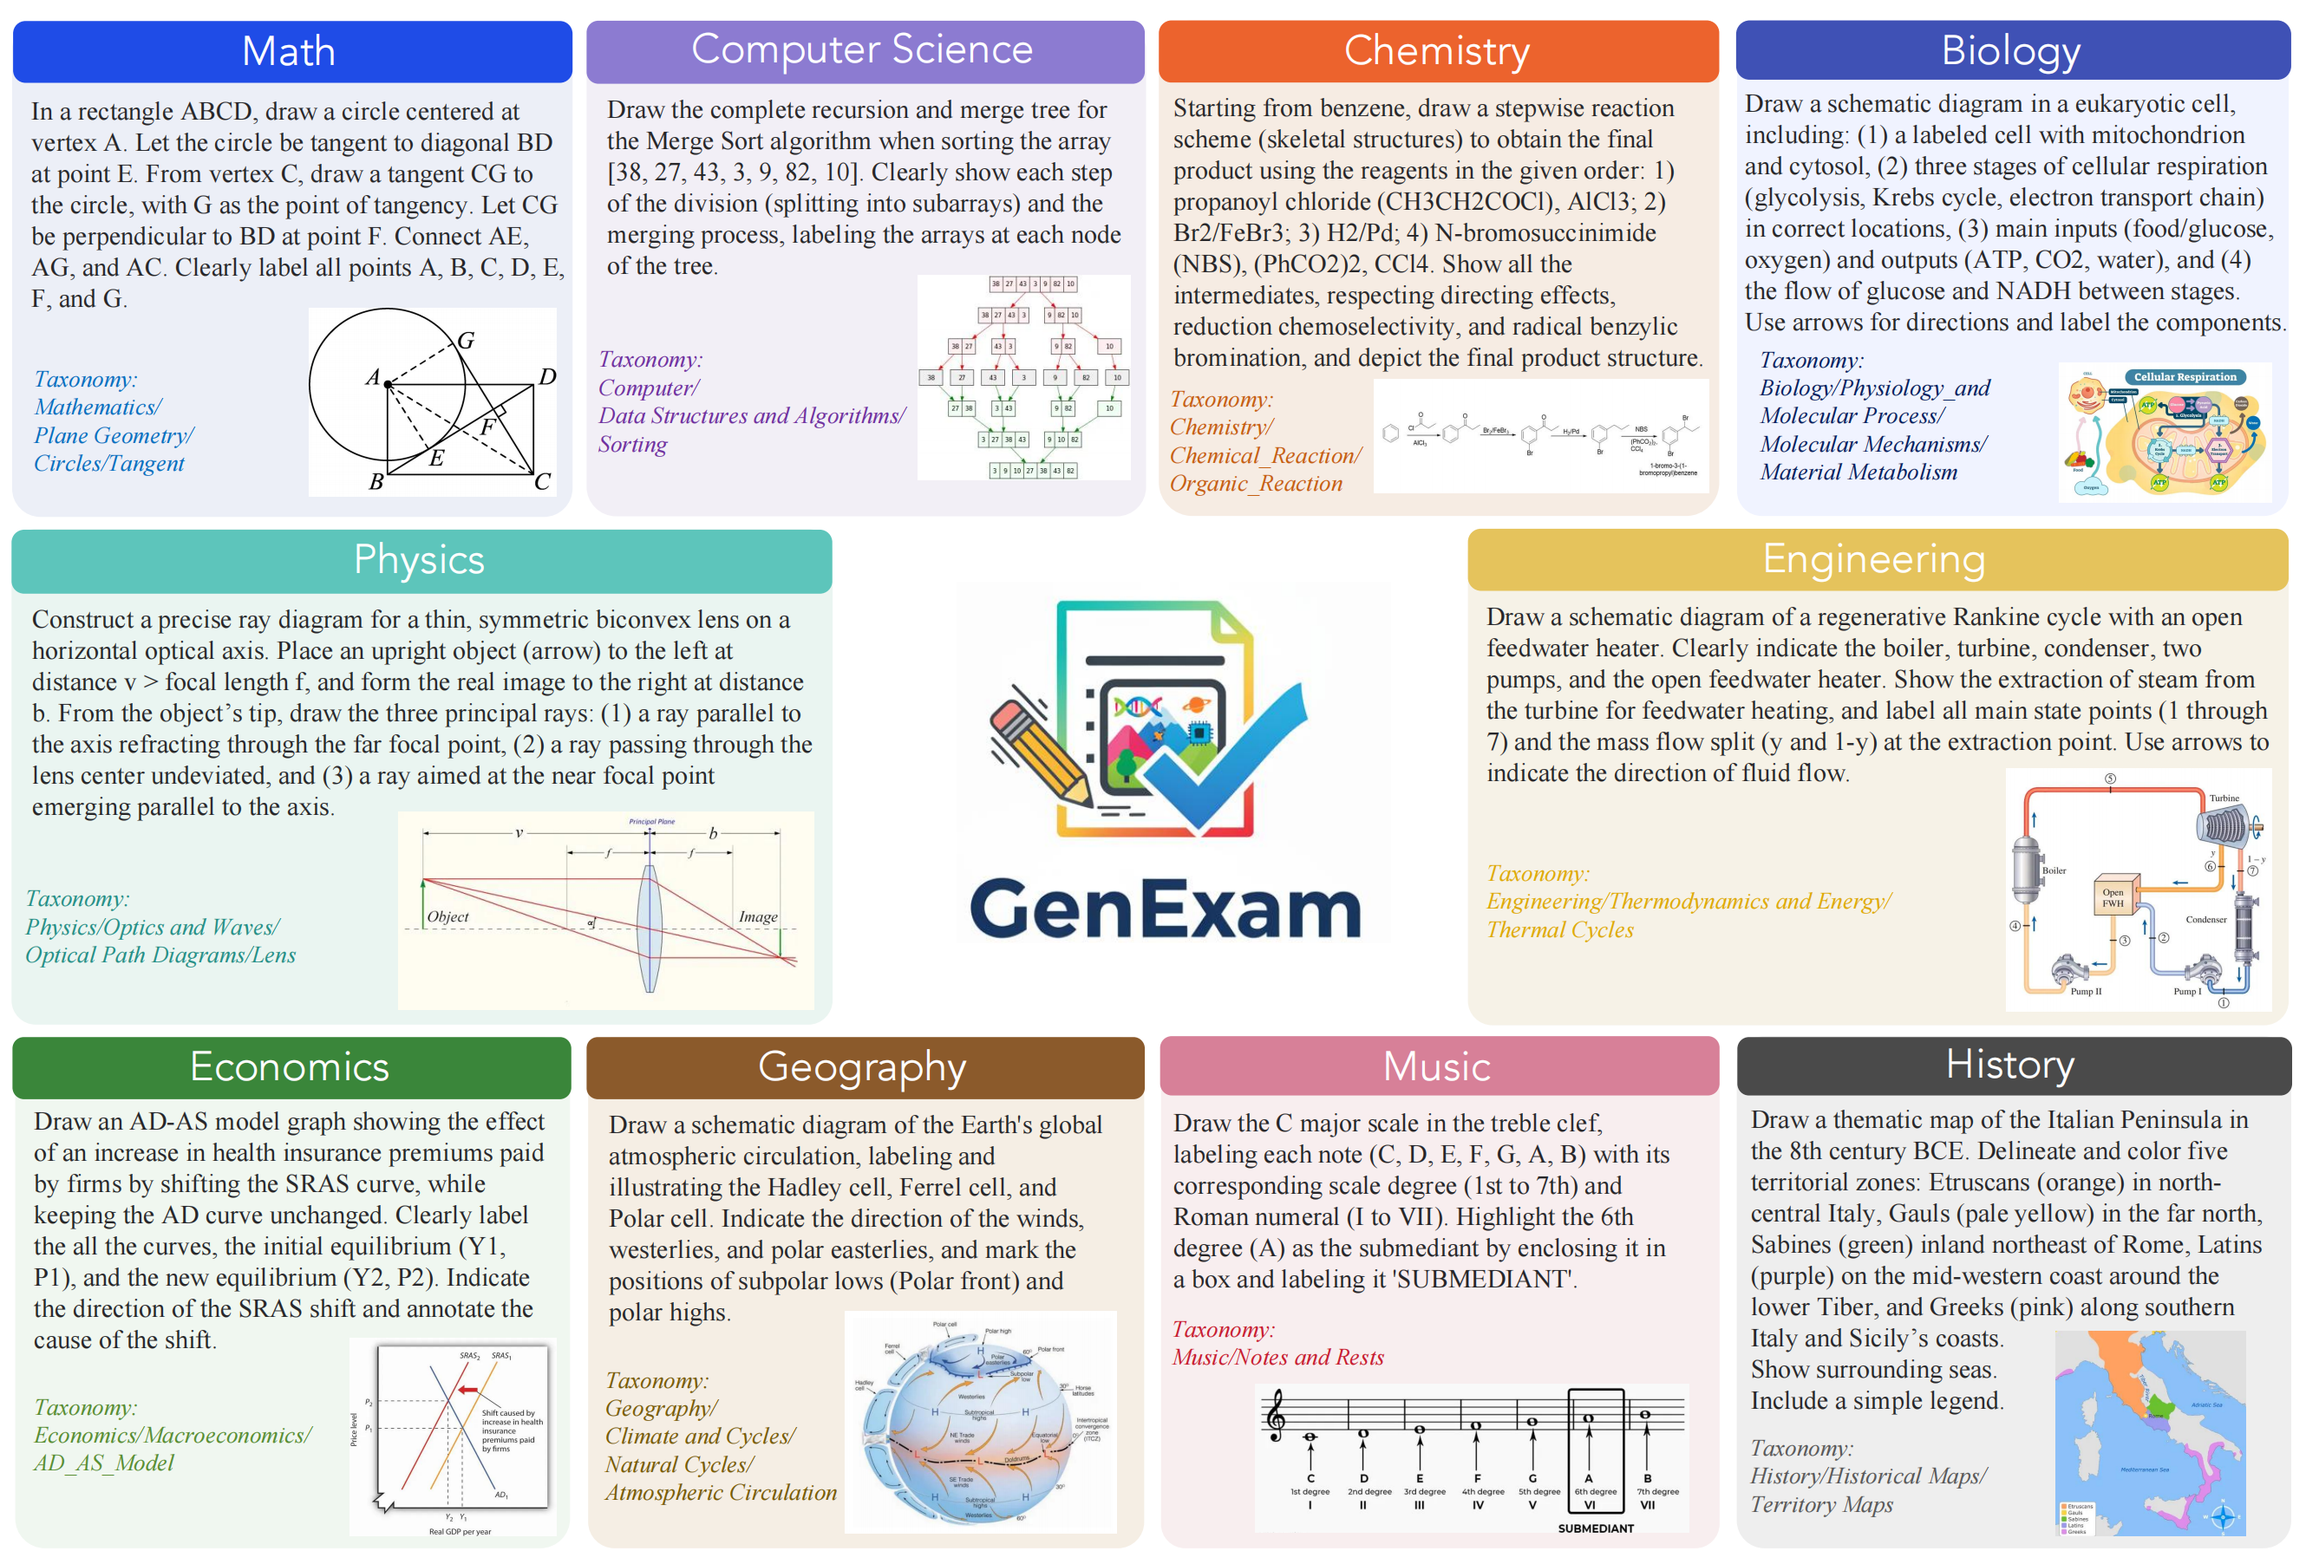
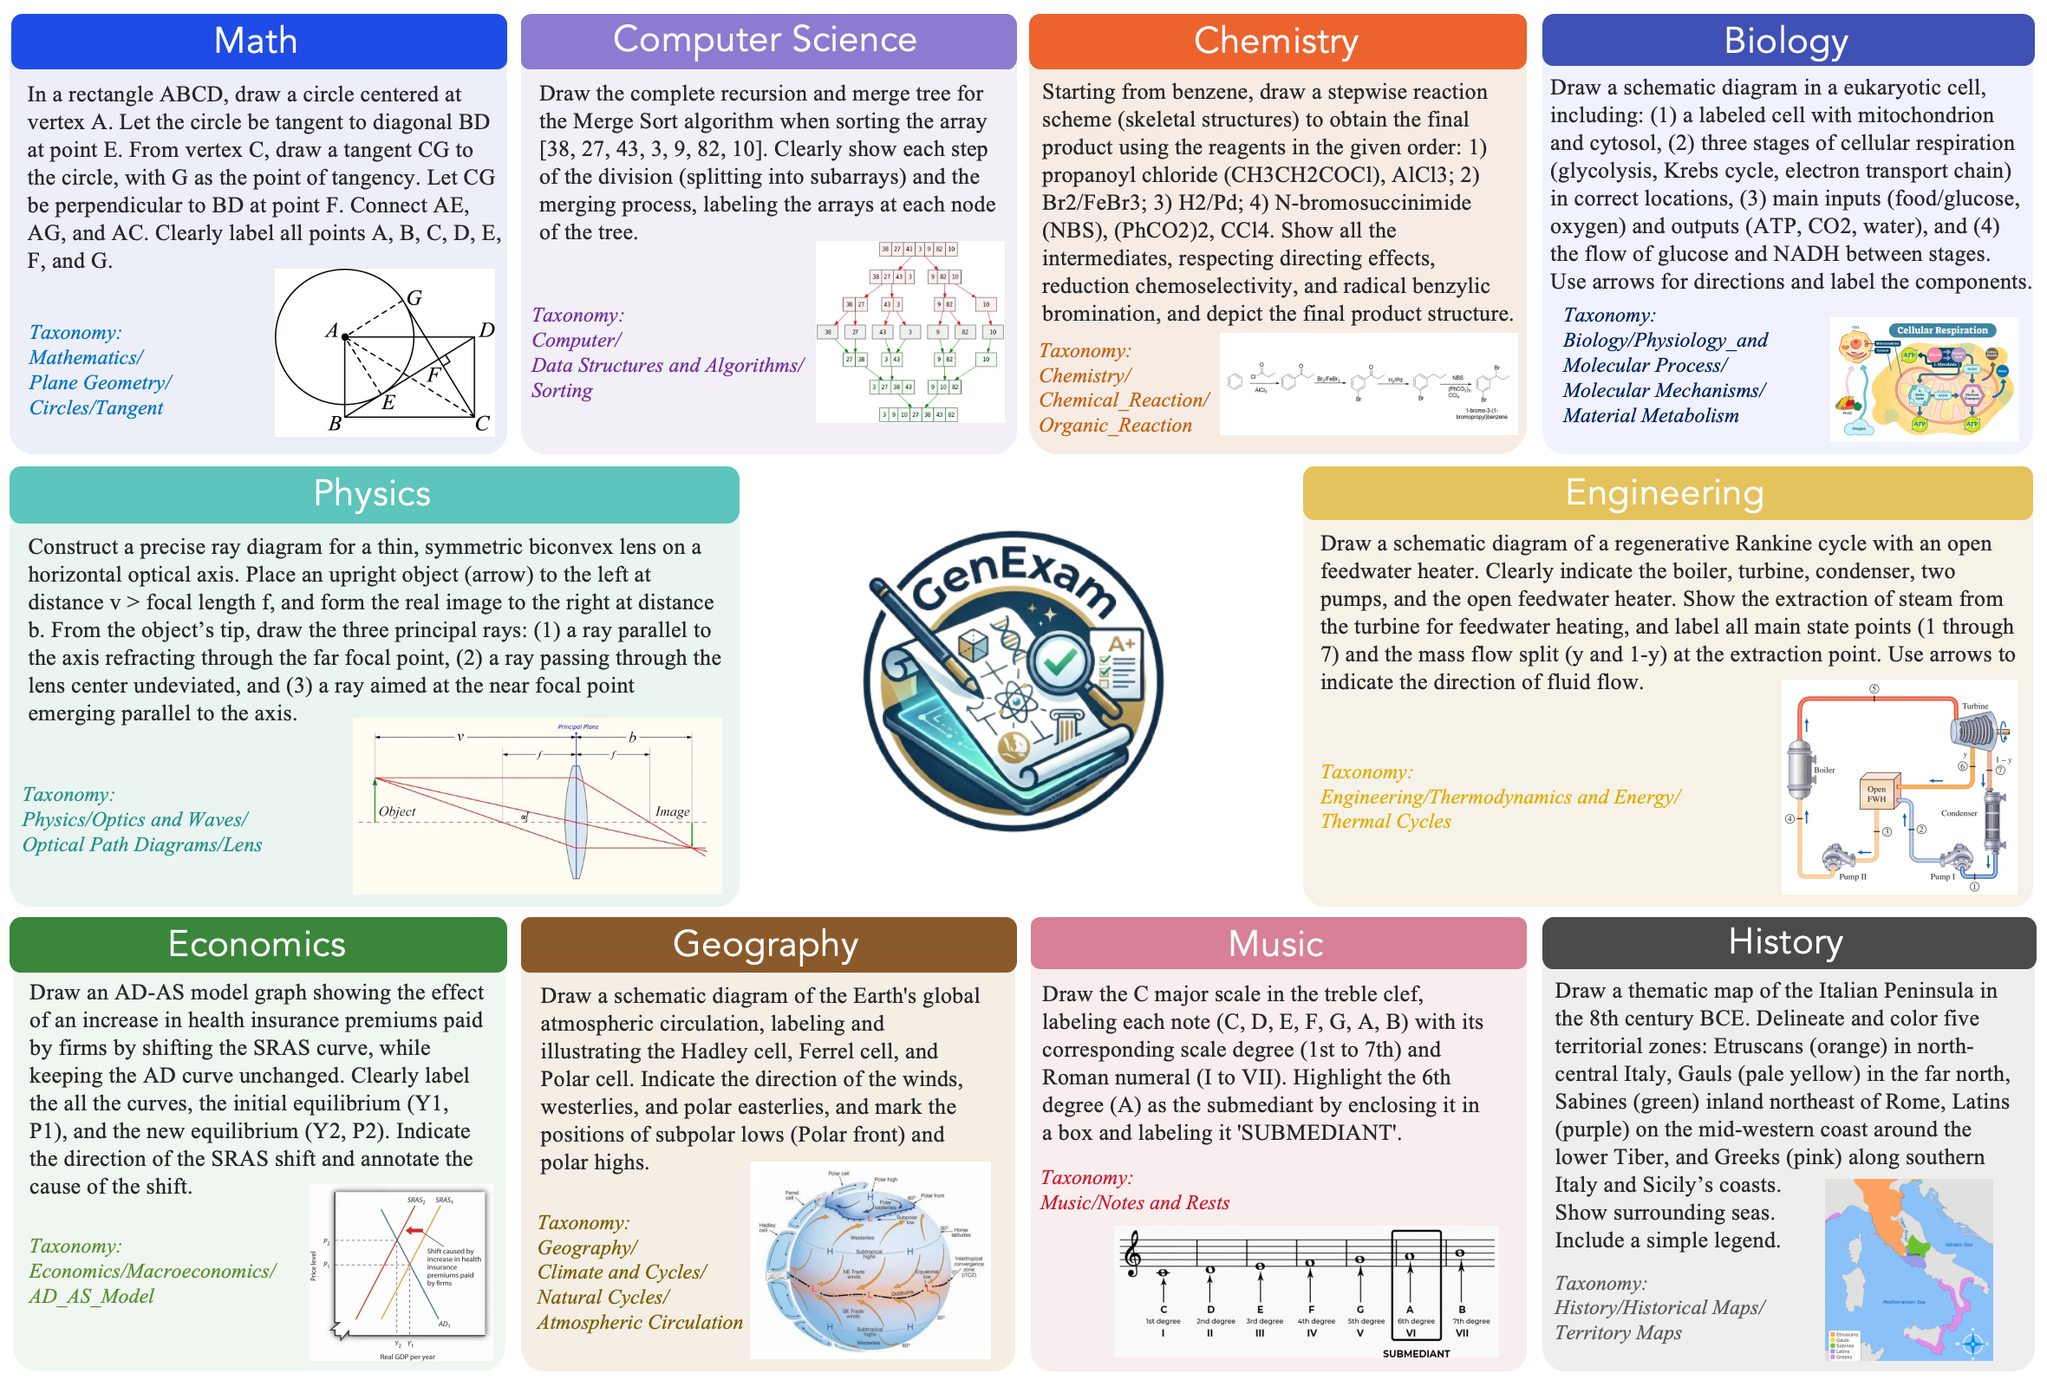
update flux.2 dev and qwen-image-2512

diff --git a/README.md b/README.md
@@ -1,6 +1,6 @@
 <div align="center">
 
-# <img src="assets/logo_no_text.png" alt="logo" height="45"/> GenExam: A Multidisciplinary Text-to-Image Exam
+# <img src="assets/logo.png" alt="logo" height="45"/> GenExam: A Multidisciplinary Text-to-Image Exam
 
 [Zhaokai Wang](https://www.wzk.plus/)\*,
 [Penghao Yin](https://penghaoyin.github.io/)\*,
@@ -36,8 +36,9 @@
 
 ## ⭐ News
 
+* [2026/1/28] Results of Qwen-Image-2512 and FLUX.2 dev are updated.
 * [2025/12/17] Results of GPT-Image-1.5, Seedream-4.5 and FLUX.2 max are updated.
-* [2025/11/23] Gemini-3-Pro-Image-Preview (Nano Banana Pro) achieves new SOTA! (72.7 strict score and 93.7 relaxed score)
+* [2025/11/23] Nano Banana Pro achieves new SOTA! (72.7 strict score and 93.7 relaxed score)
 * [2025/10/7] Results of HunyuanImage-3.0 are updated.
 * [2025/9/18] GenExam is released!
 
@@ -47,11 +48,13 @@ Exams are a fundamental test of expert-level intelligence and require integrated
 
 We introduce GenExam, the first benchmark for **multidisciplinary text-to-image exams**, featuring 1,000 samples across 10 subjects with exam-style prompts organized under a four-level taxonomy. Each problem is equipped with ground-truth images and fine-grained scoring points to enable a precise evaluation of semantic correctness and visual plausibility. 
 
-Experiments show that even state-of-the-art models such as GPT-Image-1 and Gemini-2.5-Flash-Image achieve less than 15% strict scores, and most models yield almost 0%, suggesting the great challenge of our benchmark. By framing image generation as an exam, GenExam offers a rigorous assessment of models' ability to integrate knowledge, reasoning, and generation, providing insights on the path to general AGI.
+Experiments on 17 text-to-image and unified models demonstrate the great challenge of GenExam and the huge gap where open-source models consistently lag behind the leading closed-source ones. By framing image generation as an exam, GenExam offers a rigorous assessment of models' ability to integrate understanding, reasoning, and generation, providing insights on the path to intelligent generative models. Our benchmark and evaluation code will be released.
 
 <div align="center">
   <img src="assets/overview.png" alt="overview" width="100%">
+  <img src="assets/evaluation.png" alt="overview" width="100%">
 </div>
+
 
 ## 🚀 Leaderboard
 
@@ -64,12 +67,11 @@ Experiments show that even state-of-the-art models such as GPT-Image-1 and Gemin
     <th>Geo</th><th>Comp</th><th>Eng</th><th>Econ</th>
     <th>Music</th><th>Hist</th><th>Overall</th>
   </tr>
-
   <tr>
     <th colspan="12" style="text-align:left">Closed-source Models</th>
   </tr>
   <tr>
-    <td>Gemini-3-Pro-Image-Preview (Nano Banana Pro)</td><td>55.6</td><td>75.2</td><td>60.2</td><td>75.6</td><td>75.8</td><td>65.7</td><td>71.2</td><td>88.3</td><td>61.5</td><td>97.6</td><td>72.7</td>
+    <td>Nano Banana Pro</td><td>55.6</td><td>75.2</td><td>60.2</td><td>75.6</td><td>75.8</td><td>65.7</td><td>71.2</td><td>88.3</td><td>61.5</td><td>97.6</td><td>72.7</td>
   </tr>
   <tr>
     <td>GPT-Image-1.5</td><td>26.5</td><td>46.0</td><td>39.0</td><td>56.4</td><td>60.6</td><td>36.3</td><td>44.1</td><td>42.9</td><td>29.2</td><td>51.2</td><td>43.2</td>
@@ -98,10 +100,18 @@ Experiments show that even state-of-the-art models such as GPT-Image-1 and Gemin
   <tr>
     <td>FLUX.1 Kontext max</td><td>0.0</td><td>0.0</td><td>0.0</td><td>0.0</td><td>0.0</td><td>0.0</td><td>0.0</td><td>0.0</td><td>0.0</td><td>0.0</td><td>0.0</td>
   </tr>
-
   <tr>
     <th colspan="12" style="text-align:left">Open-source T2I Models</th>
   </tr>
+
+<tr>
+    <td>FLUX.2 dev</td><td>2.6</td><td>1.8</td><td>4.6</td><td>3.8</td><td>3.0</td><td>1.0</td><td>2.7</td><td>1.3</td><td>0.0</td><td>0.0</td><td>2.1</td>
+  </tr>
+
+<tr>
+    <td>Qwen-Image-2512</td><td>0.0</td><td>2.7</td><td>0.8</td><td>1.3</td><td>6.1</td><td>0.0</td><td>4.5</td><td>0.0</td><td>0.0</td><td>0.0</td><td>1.5</td>
+  </tr>
+
   <tr>
     <td>Qwen-Image</td><td>0.0</td><td>0.0</td><td>0.0</td><td>0.0</td><td>3.0</td><td>0.0</td><td>0.0</td><td>0.0</td><td>0.0</td><td>0.0</td><td>0.3</td>
   </tr>
@@ -161,12 +171,11 @@ Experiments show that even state-of-the-art models such as GPT-Image-1 and Gemin
     <th>Geo</th><th>Comp</th><th>Eng</th><th>Econ</th>
     <th>Music</th><th>Hist</th><th>Overall</th>
   </tr>
-
   <tr>
     <th colspan="12" style="text-align:left">Closed-source Models</th>
   </tr>
   <tr>
-    <td>Gemini-3-Pro-Image-Preview (Nano Banana Pro)</td><td>86.3</td><td>95.1</td><td>88.7</td><td>95.9</td><td>96.5</td><td>91.7</td><td>95.1</td><td>97.2</td><td>91.0</td><td>99.9</td><td>93.7</td>
+    <td>Nano Banana Pro</td><td>86.3</td><td>95.1</td><td>88.7</td><td>95.9</td><td>96.5</td><td>91.7</td><td>95.1</td><td>97.2</td><td>91.0</td><td>99.9</td><td>93.7</td>
   </tr>
   <tr>
     <td>GPT-Image-1.5</td><td>65.8</td><td>85.4</td><td>78.1</td><td>91.9</td><td>92.5</td><td>75.8</td><td>86.4</td><td>85.5</td><td>70.8</td><td>90.9</td><td>82.3</td>
@@ -197,9 +206,19 @@ Experiments show that even state-of-the-art models such as GPT-Image-1 and Gemin
   </tr>
 
 
+
   <tr>
     <th colspan="12" style="text-align:left">Open-source T2I Models</th>
   </tr>
+
+<tr>
+    <td>FLUX.2 dev</td><td>31.6</td><td>42.7</td><td>33.2</td><td>54.8</td><td>62.6</td><td>31.1</td><td>48.9</td><td>43.6</td><td>33.4</td><td>47.5</td><td>42.9</td>
+  </tr>
+
+<tr>
+    <td>Qwen-Image-2512</td><td>27.9</td><td>41.3</td><td>23.2</td><td>44.4</td><td>56.6</td><td>24.1</td><td>42.9</td><td>32.3</td><td>28.3</td><td>37.0</td><td>35.8</td>
+  </tr>
+
   <tr>
     <td>Qwen-Image</td><td>18.9</td><td>26.3</td><td>15.3</td><td>32.1</td><td>49.6</td><td>18.9</td><td>32.0</td><td>20.3</td><td>23.4</td><td>38.6</td><td>27.5</td>
   </tr>
@@ -253,6 +272,7 @@ Experiments show that even state-of-the-art models such as GPT-Image-1 and Gemin
 <div align="center">
   <img src="assets/model_performance_comparison.png" width="100%">
 </div>
+
 
 ## 🛠 Usage
 
@@ -405,9 +425,9 @@ python cal_score.py --mini --eval_results_dir ./eval_results
 For more examples, please refer to the appendix in our paper.
 
 <div align="center">
-  <img src="assets/math.png" alt="math" width="100%">
-  <img src="assets/music.png" alt="math" width="100%">
+  <img src="assets/examples.png" alt="math" width="100%">
 </div>
+
 
 
 ### Images Generated by Nano Banana Pro
@@ -424,6 +444,8 @@ For more examples, please refer to the appendix in our paper.
 ## 📃 License
 
 This project is released under the [MIT license](LICENSE).
+
+
 
 ## 🖊 Citation
 
